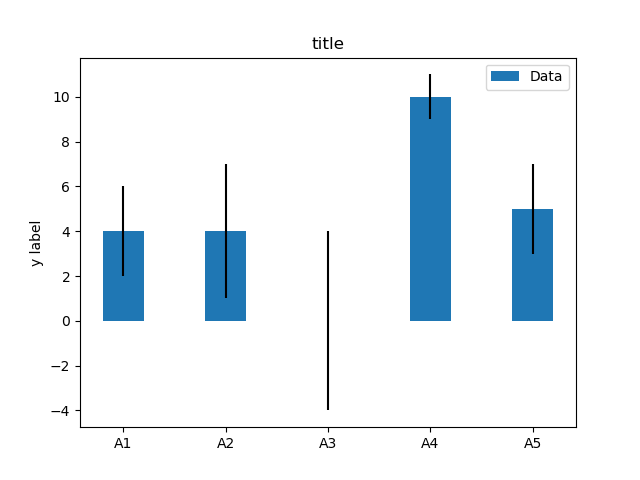
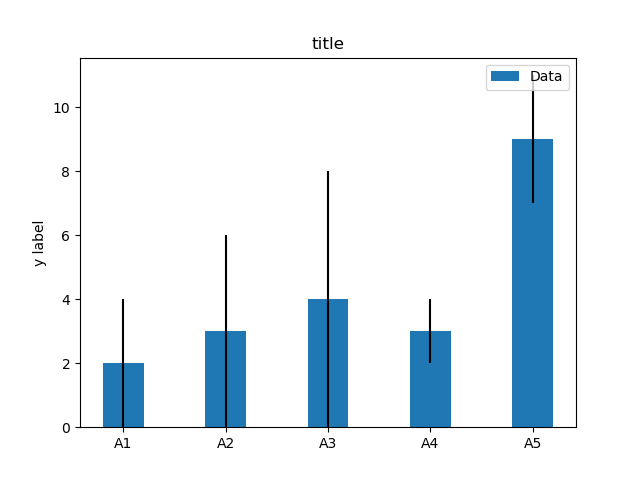
first commit

diff --git a/example.py b/example.py
@@ -2,7 +2,7 @@ import numpy as np
 import matplotlib.pyplot as plt
 
 labels = ['A1', 'A2', 'A3', 'A4', 'A5']
-m_means = [4,4,0,10,5]
+m_means = [2,3,4,3,9]
 m_std = [2, 3, 4, 1, 2]
 width = 0.40       # the width of the bars
 

diff --git a/README.md b/README.md
@@ -1,4 +1,4 @@
-# Matplotlib no 118 
+# Matplotlib no 119 
 
 python example
 
